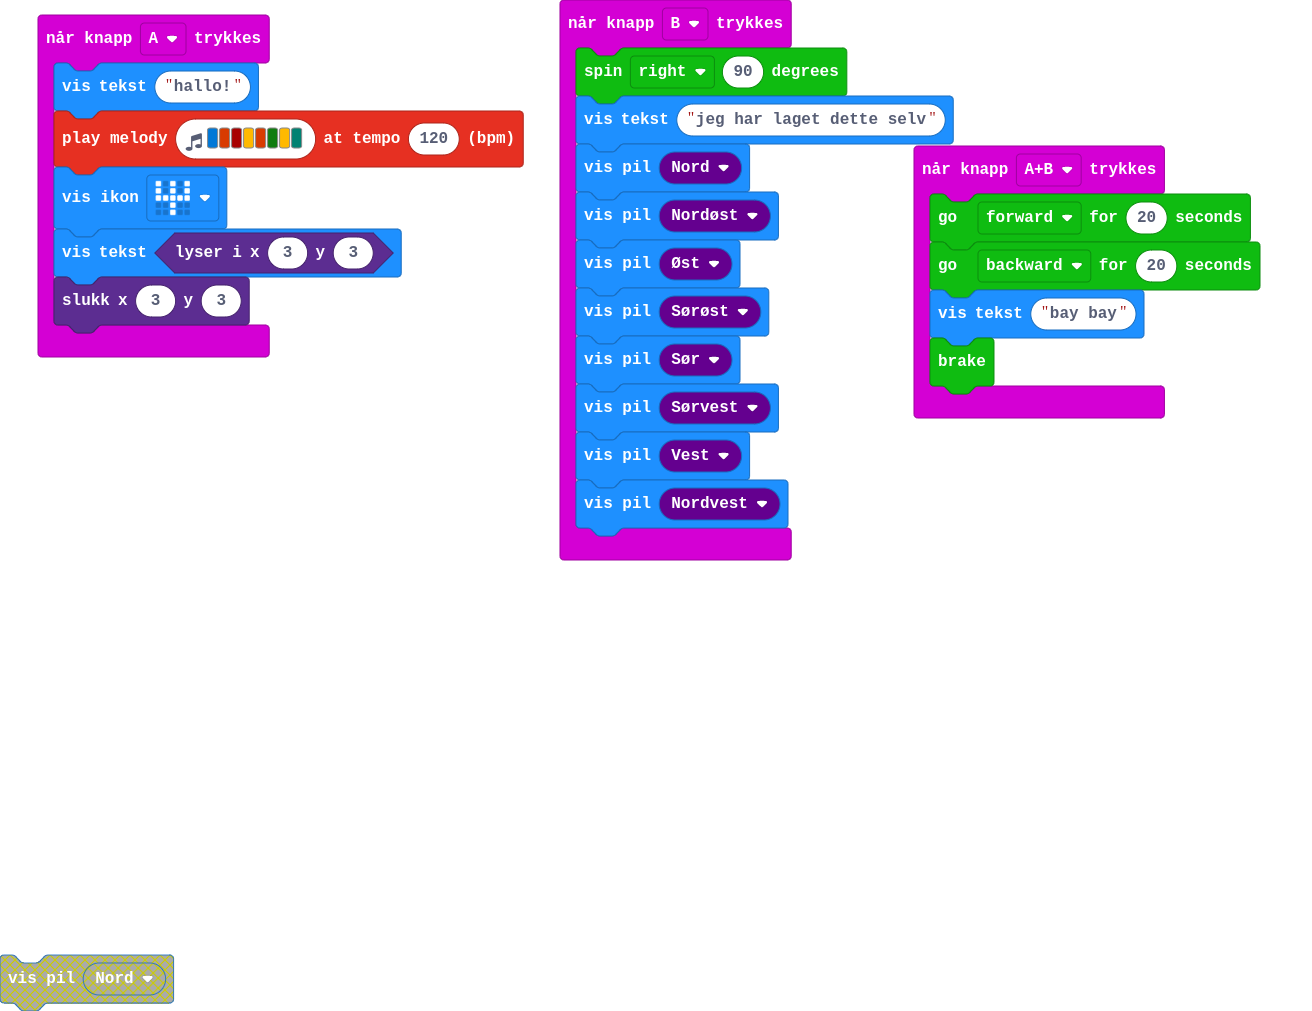
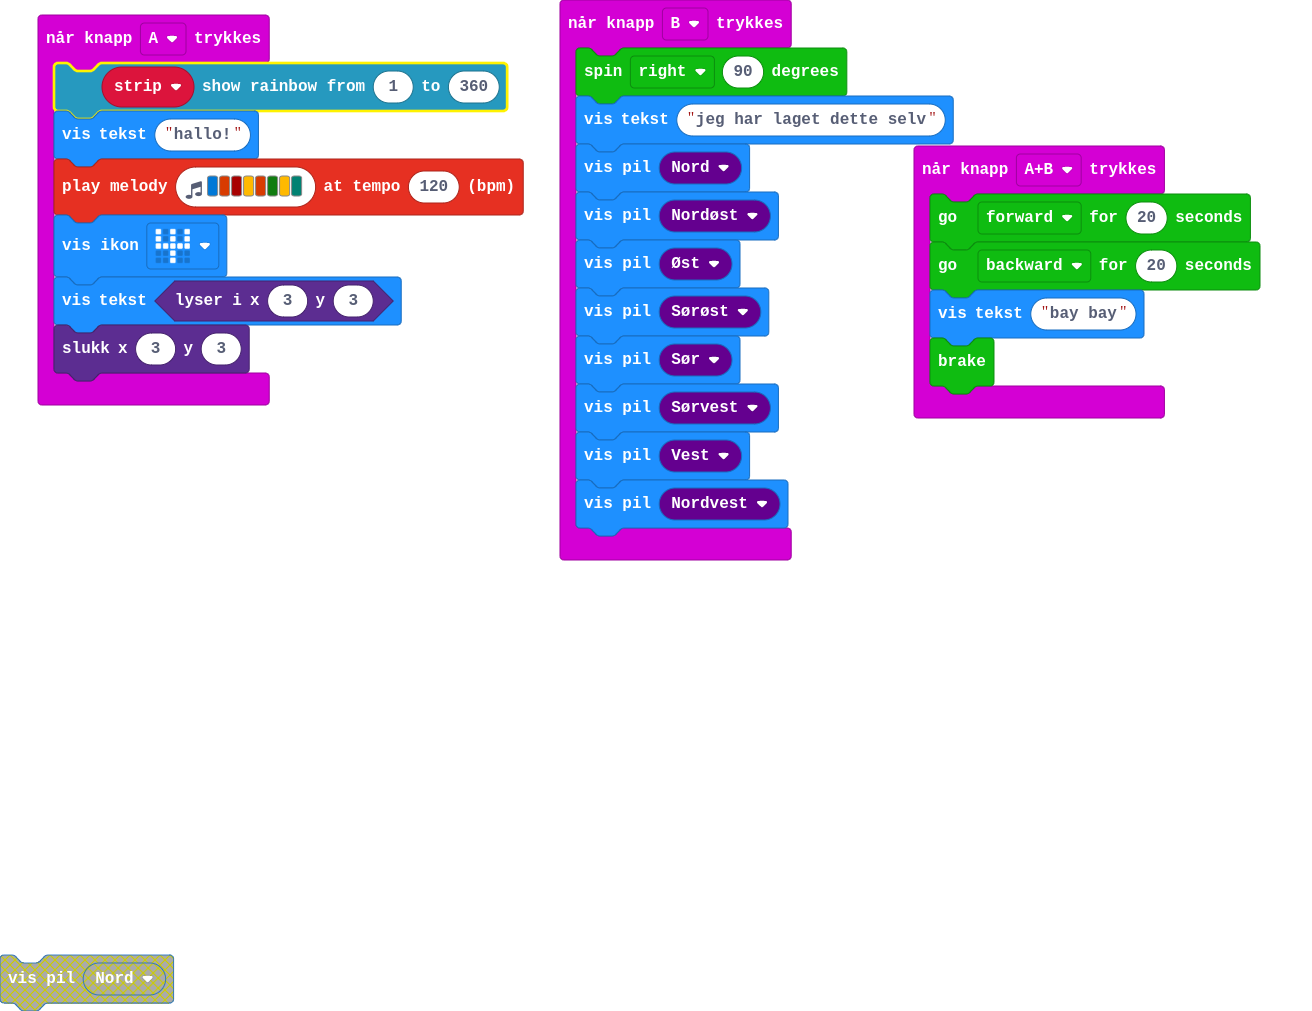
Oppdater main.blocks, main.ts

Changed region(s): [[0.0312, 0.0613, 0.4062, 0.3986]]

diff --git a/main.ts b/main.ts
@@ -1,4 +1,6 @@
 input.onButtonPressed(Button.A, function () {
+    let strip: neopixel.Strip = null
+    strip.showRainbow(1, 360)
     basic.showString("hallo!")
     music.playMelody("E B C5 A B G A F ", 120)
     basic.showIcon(IconNames.Pitchfork)
